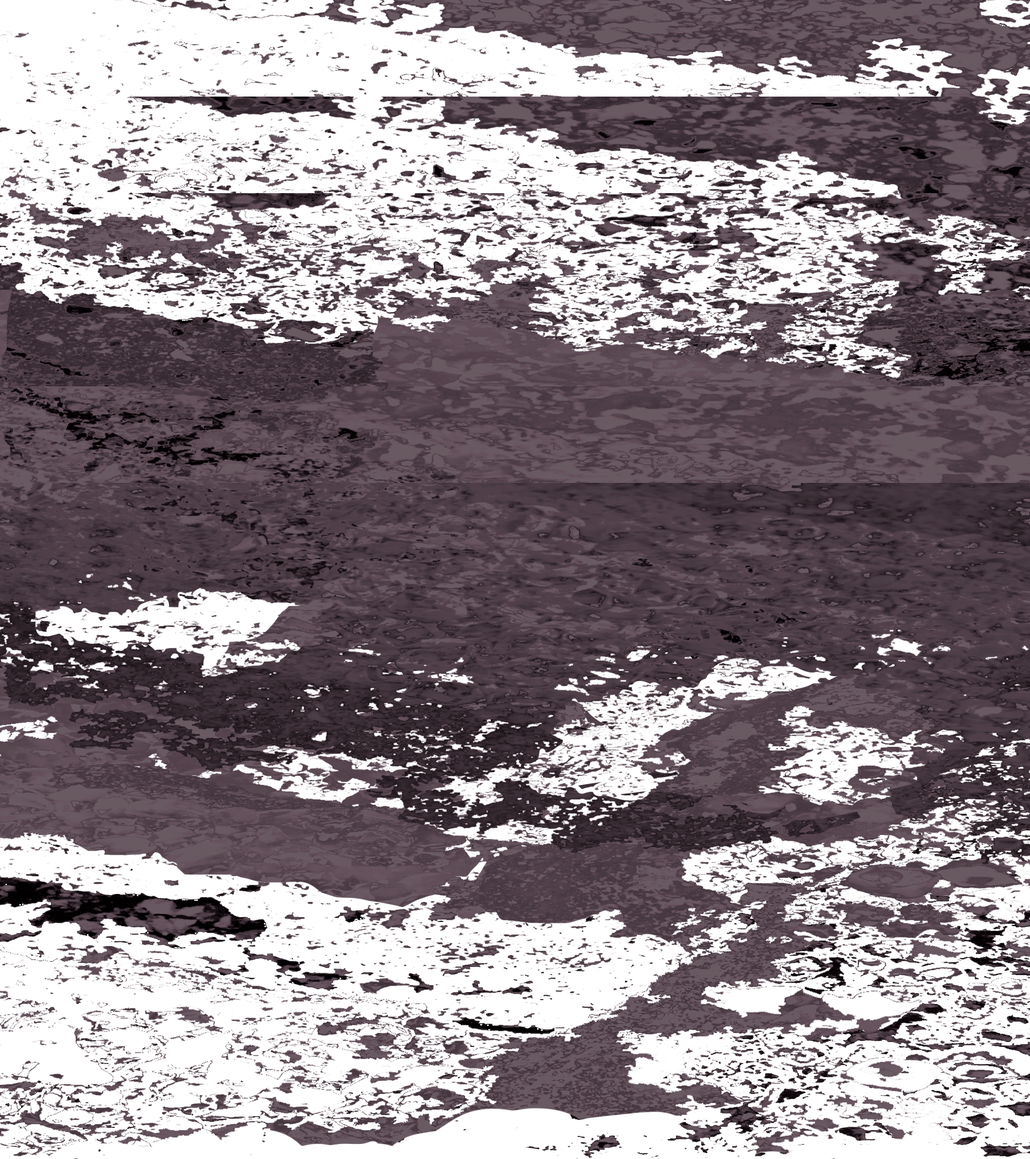
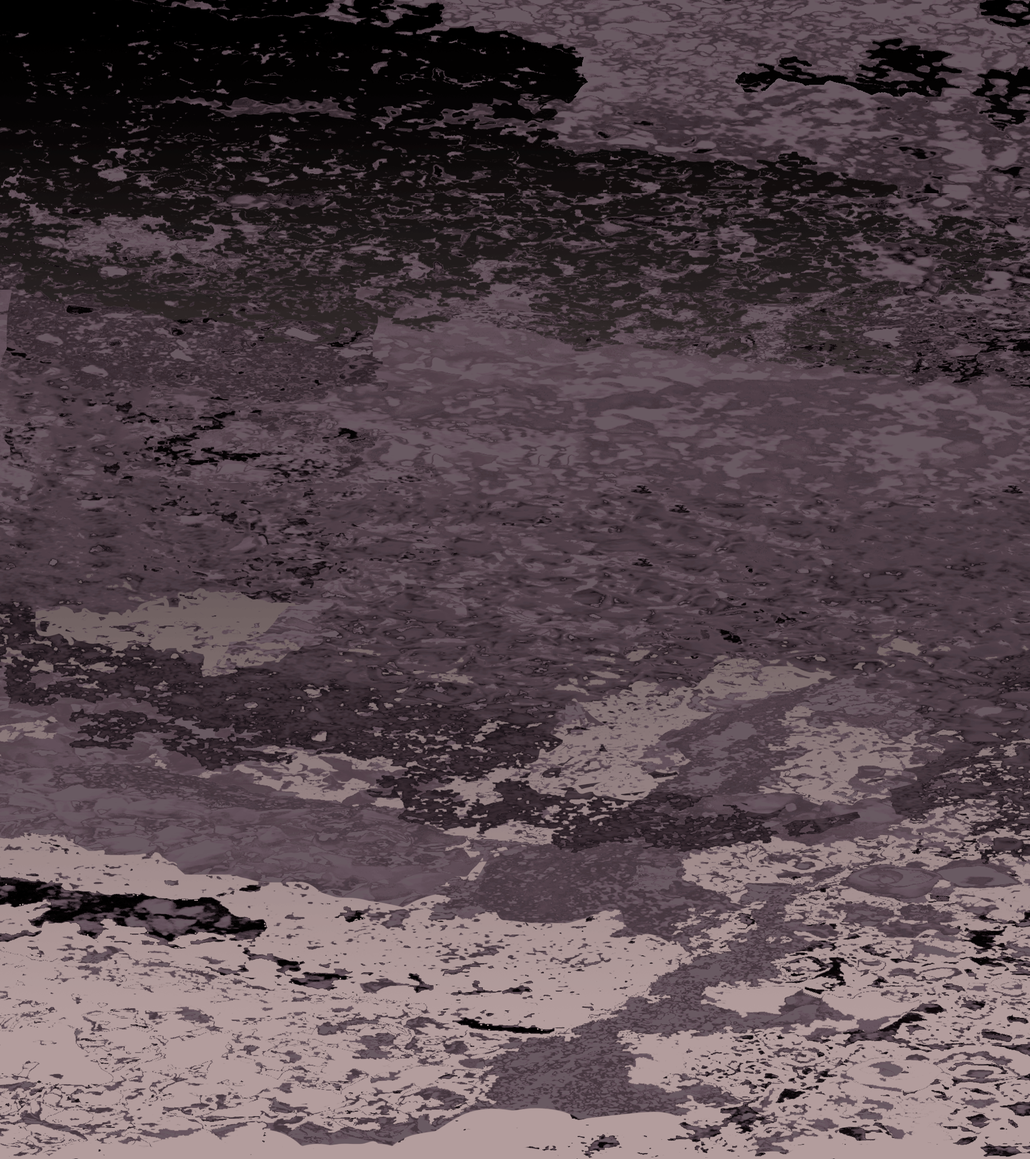
triple test

diff --git a/src/App.svelte b/src/App.svelte
@@ -3,6 +3,7 @@
 	import About from "./About.svelte";
 	import Full from "./Full.svelte";
 	import Landing from "./Landing.svelte";
+import Loading from "./Loading.svelte";
 	import Stack from "./Stack.svelte";
 
 	//
@@ -22,9 +23,9 @@
 			id: 1,
 			title: "berg intro",
 			folder: "bergintro",
-			variation: "double",
+			variation: "triple",
 			layerCount: 7,
-			fullScale: 2.0,
+			fullScale: 3.0,
 		},
 		{
 			id: 2,
@@ -238,7 +239,7 @@
 </svelte:head>
 <svelte:window on:scroll={handleScroll} />
 {#await preloadAll()}
-	<Landing text="loading" />
+	<Loading/>
 {:then _}
 	<div class="dummy" style="height: {dummyH}px">
 		<div class="top">
